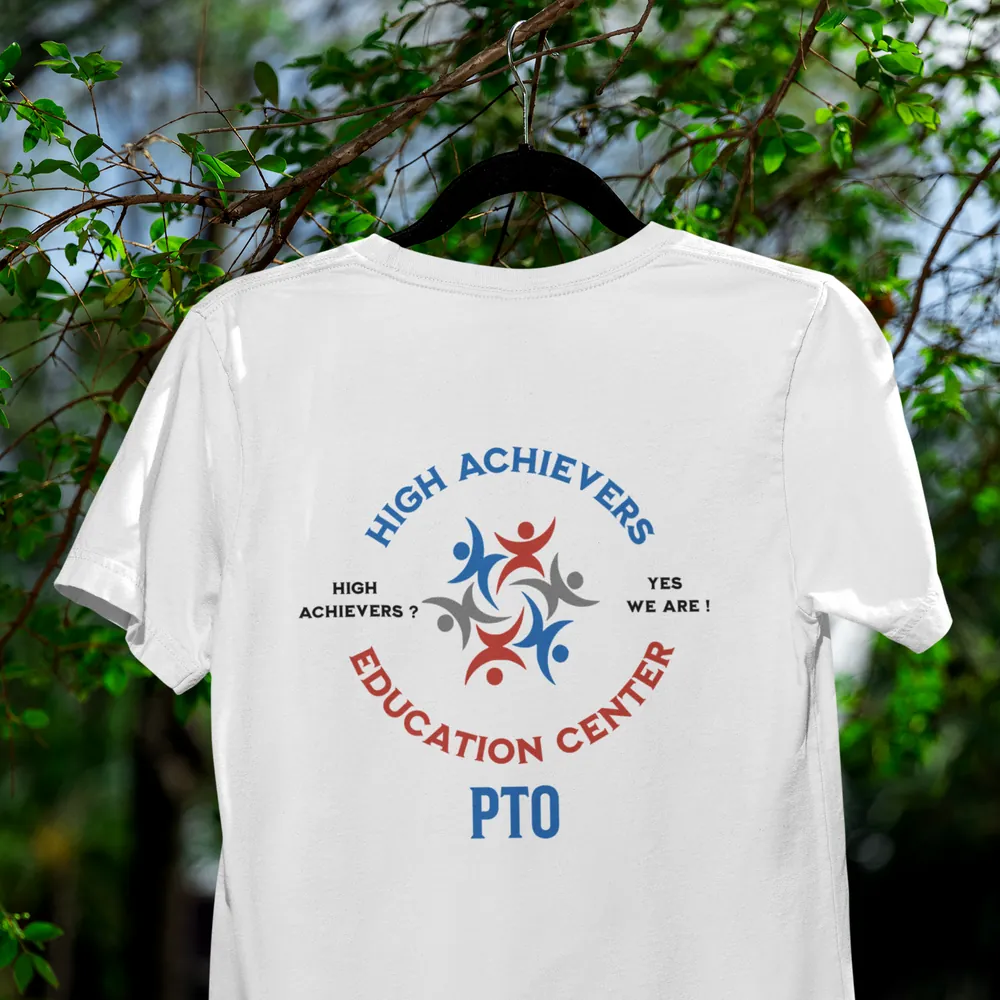
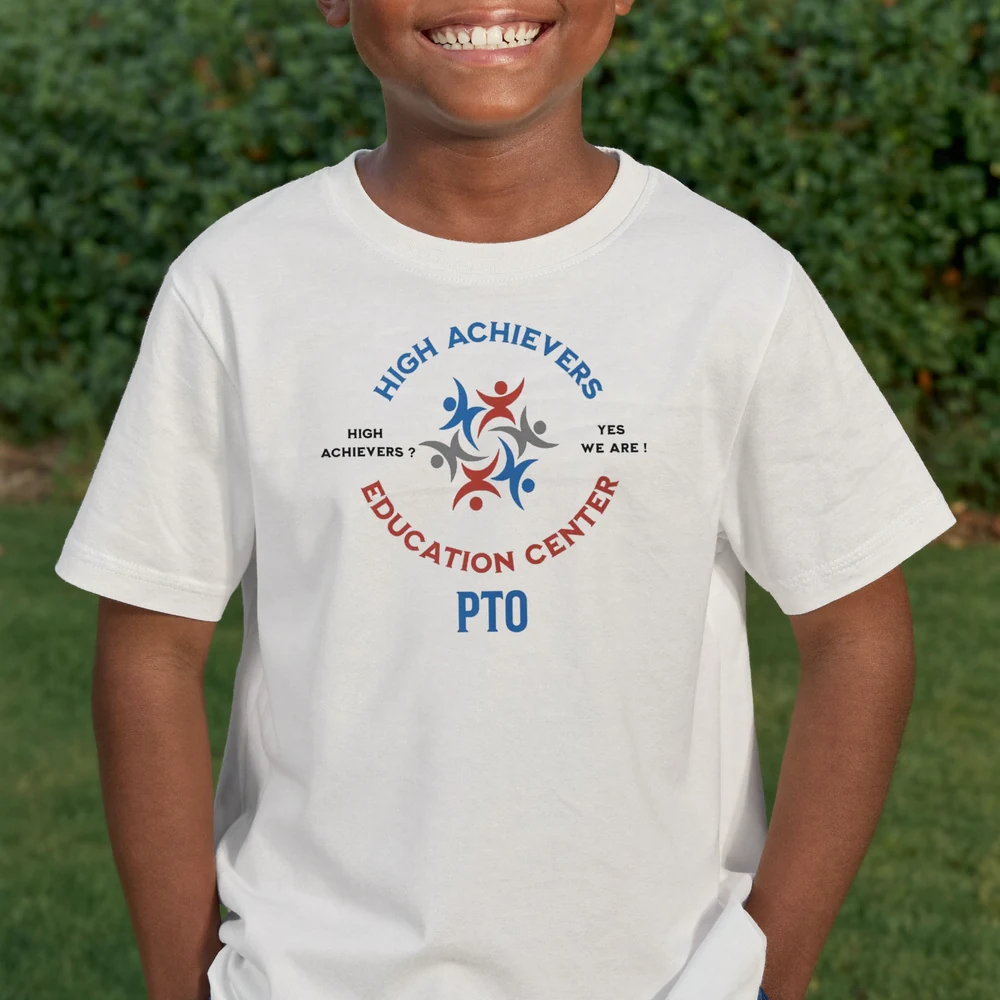
Add generated youth product photo for H.A.E.C T-Shirt_Youth
AI-generated base shot (African American child in a blank white tee) with the
real H.A.E.C crest composited on, rather than letting the model render the
logo — AI garbles logo text. Crest keyed off the adult photo, background
normalised so it mattes cleanly, and tinted by the fabric shading so the print
sits in the folds. Cache-bust shop.js v=48, img v=2

diff --git a/assets/js/shop.js b/assets/js/shop.js
@@ -143,7 +143,7 @@ const PRODUCTS = [
     img: "assets/img/shop-haec-tshirt.webp", options: "Adult S–3XL · PTO or Non-PTO",
     blurb: "The High Achievers (H.A.E.C) adult tee — professional style and comfort." },
   { id: "haec-tshirt-youth", name: "H.A.E.C T-Shirt_Youth", price: 16.95, cat: "Education",
-    img: "assets/img/shop-haec-tshirt-youth.webp", options: "Youth XS–XL · PTO or Non-PTO",
+    img: "assets/img/shop-haec-tshirt-youth.webp?v=2", options: "Youth XS–XL · PTO or Non-PTO",
     blurb: "The High Achievers (H.A.E.C) youth tee — soft, durable and school-ready." },
   { id: "haec-tote", name: "H.A.E.C Tote Bag", price: 12, from: true, cat: "Education",
     img: "assets/img/shop-haec-tote.webp", options: "Natural / Black · PTO or Non-PTO",

diff --git a/order.html b/order.html
@@ -142,6 +142,6 @@
   </div>
   <button class="back-to-top" id="backToTop" aria-label="Back to top"><svg viewBox="0 0 24 24" fill="none"><path d="M12 19V5M5 12l7-7 7 7" stroke="currentColor" stroke-width="2" stroke-linecap="round" stroke-linejoin="round"/></svg></button>
   <script src="assets/js/main.js?v=4" defer></script>
-  <script src="assets/js/shop.js?v=47" defer></script>
+  <script src="assets/js/shop.js?v=48" defer></script>
 </body>
 </html>

diff --git a/shop.html b/shop.html
@@ -165,6 +165,6 @@
   </div>
   <button class="back-to-top" id="backToTop" aria-label="Back to top"><svg viewBox="0 0 24 24" fill="none"><path d="M12 19V5M5 12l7-7 7 7" stroke="currentColor" stroke-width="2" stroke-linecap="round" stroke-linejoin="round"/></svg></button>
   <script src="assets/js/main.js?v=4" defer></script>
-  <script src="assets/js/shop.js?v=47" defer></script>
+  <script src="assets/js/shop.js?v=48" defer></script>
 </body>
 </html>
